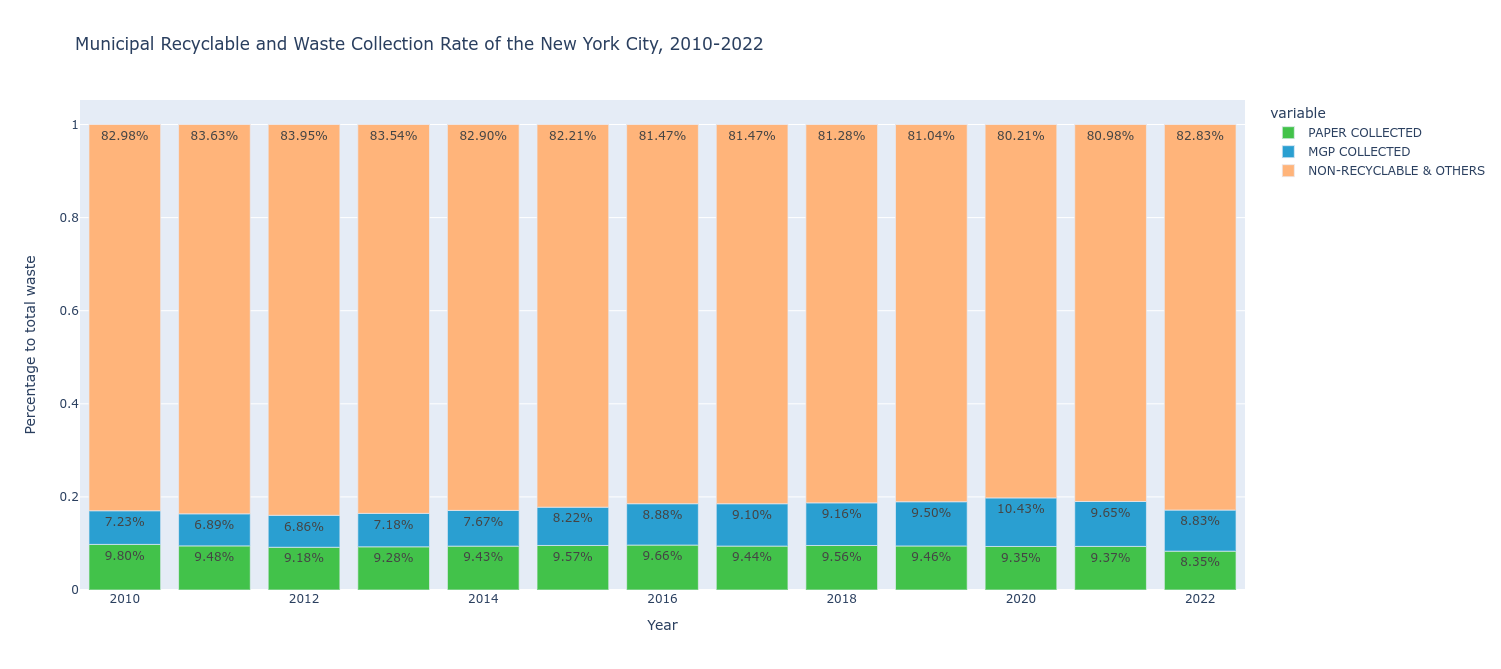
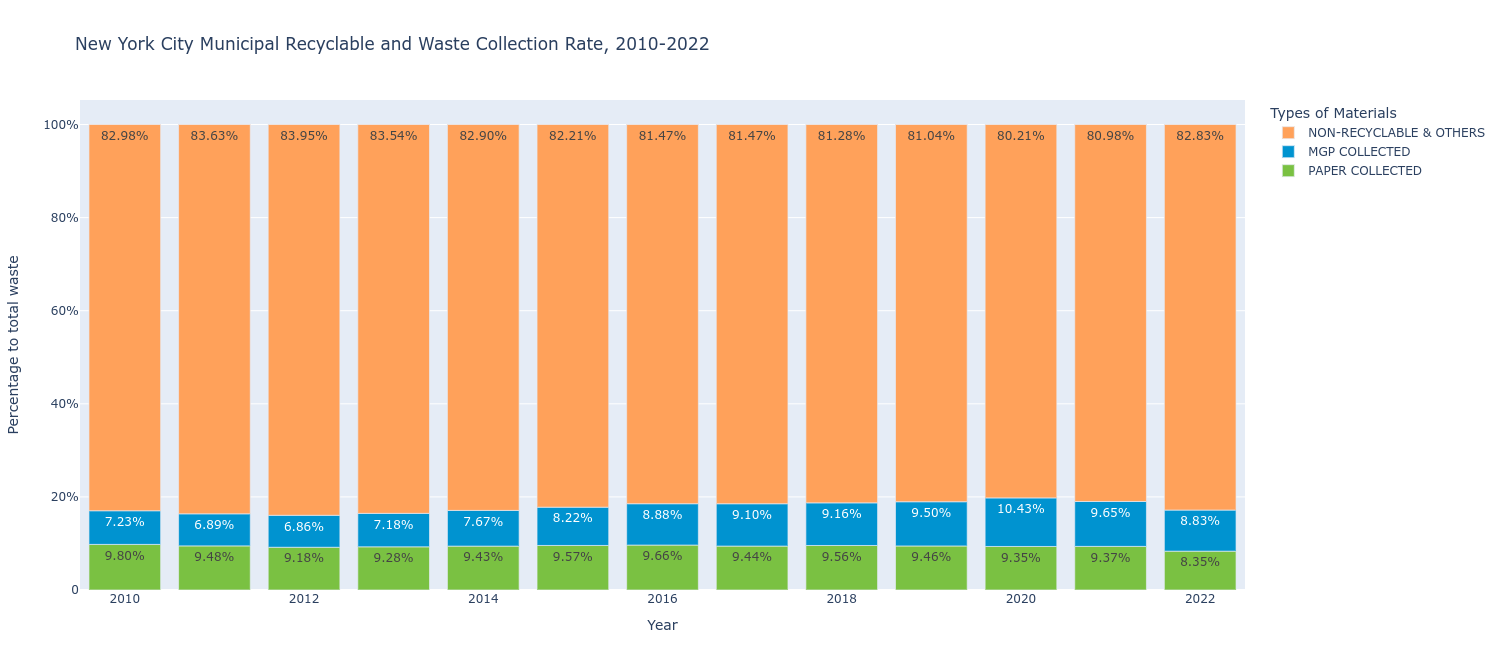
Add files via upload
- Made percentage calculation after calling new csv files in both recycle_stat_NY & recycle_stat_US.py.
- Removed reading original csv files in recycle_stat.py.
- Added legend title to all three charts.
- Standardize column names and chart titles.
- Show percentage on y-axis in all charts.
- Rewrite credits.

diff --git a/recycle_stat.py b/recycle_stat.py
@@ -4,81 +4,17 @@ import plotly.express as px
 import plotly.graph_objects as go
 
 # =================================================================================
-# National solid waste management dataset from EPA
-# https://edg.epa.gov/metadata/catalog/search/resource/details.page?uuid=C9310A5s-16D2-4002-B36B-2B0A1C637D4E
-# Credit to Professor Matt Miller for initial conversion of the CSV to a dictionary 
-# that could be visualized with the Plotly module.
-# Further effort has been made to focus on data necessary for this project.
+# Compare the NYC recycle collection rate with national rate
+# Uses the two datasets (USmswTotal_p.csv and NYCmswTotal_p.csv) created in 
+# recycle_stat_NY.py and recycle_stat_US.py.
+# If running this script alone, please download the two new datasets from GitHub,
+# and save them in the same directory with this script.
 # =================================================================================
 
-with open("National_MSW_total.csv", "r") as USmswOriginal_csv:
-    reader = csv.DictReader(USmswOriginal_csv)
+# =================================================================================
+# US data
+# =================================================================================
 
-    USmswOriginal = {}
-
-    # Select data to be included in the USmswOriginal{}
-    for row in reader:
-        if "Materials" in row:
-
-            # Skip footer description rows in the CSV
-            if row["Materials"] != "" and "Table 1" not in row["Materials"]:
-                for year in row:
-
-                    # Read and create keys with year values from the first row
-                    if year != "Materials":
-
-                        # Take only data from 2010
-                        if int(year) >= 2010:
-                            if year not in USmswOriginal:
-                                USmswOriginal[year] = {"year": year}
-
-                            # Add corresponding materials as keys and their values to each year
-                            USmswOriginal[year][row["Materials"]] = row[year]
-
-    #print(USmswOriginal)
-
-    # Calculate percentage and write to new file
-    for year in USmswOriginal:
-        year_total = int(USmswOriginal[year]["Total MSW Generated - Weight"])
-
-        paper_pt = int(USmswOriginal[year]["Products - Paper and Paperboard"])/year_total*100
-        USmswOriginal[year]["Products - Paper and Paperboard"] = paper_pt
-
-        glass_pt = int(USmswOriginal[year]["Products - Glass"])/year_total*100
-        USmswOriginal[year]["Products - Glass"] = glass_pt
-
-        metal_pt = int(USmswOriginal[year]["Products - Metals - Total"])/year_total*100
-        USmswOriginal[year]["Products - Metals - Total"] = metal_pt
-
-        plastic_pt = int(USmswOriginal[year]["Products - Plastics"])/year_total*100
-        USmswOriginal[year]["Products - Plastics"] = plastic_pt
-
-        notRecycled_pt = 100-paper_pt-glass_pt-metal_pt-plastic_pt
-        USmswOriginal[year]["Non-Recyclable & Others"] = notRecycled_pt
-
-    # Remove unwanted data
-    for year in USmswOriginal:
-        for p in ["Products - Metals - Ferrous", "Products - Metals - Aluminum",
-                  "Products - Metals - OtherNonferrous", "Products - Rubber and Leather",
-                  "Products - Textiles", "Products - Wood", "Products - Other",
-                  "Products - Total Materials", "Other Wastes - Food Waste",
-                  "Other Wastes - Yard Trimmings", "Other Wastes - Miscellaneous Inorganic Wastes",
-                  "Other Wastes - Total", "Total MSW Generated - Weight"]:
-            USmswOriginal[year].pop(p)
-
-    # Write to new csv for plotly
-    with open("USmswTotal_p.csv", "w") as outfile:
-
-        # Create a list of keys from any of the years for headers
-        fieldnames = list(USmswOriginal["2010"])
-        writer = csv.DictWriter(outfile, fieldnames=fieldnames)
-        writer.writeheader()
-
-        # Populate data in rows
-        for year in USmswOriginal:
-            writer.writerow(USmswOriginal[year])
-
-# Read new csv for building the bar chart
 USmswTotal = pd.read_csv("USmswTotal_p.csv")
 
 # Rename columns' name
@@ -102,31 +38,9 @@ USp_cols = list(USmswTotal)
 USp_cols.remove("YEAR")
 
 # =================================================================================
-# NYC solid waste management dataset from NYC Open Data
-# https://data.cityofnewyork.us/City-Government/DSNY-Monthly-Tonnage-Data/ebb7-mvp5
+# NYC data
 # =================================================================================
 
-NYCmswOriginal = pd.read_csv("DSNY_Monthly_Tonnage_Data.csv")
-
-# Drop columns of borough information
-rm_borough = ["BOROUGH", "COMMUNITYDISTRICT", "BOROUGH_ID"]
-for rm in rm_borough:
-    NYCmswOriginal = NYCmswOriginal.drop(columns=rm)
-
-# Remove month from date and create a year column
-year = pd.to_datetime(NYCmswOriginal["MONTH"])
-NYCmswOriginal["YEAR"] = year.dt.year
-NYCmswOriginal = NYCmswOriginal.drop(columns="MONTH")
-
-# Reorder columns so to have YEAR as the first column
-cols = list(NYCmswOriginal.columns)
-NYCmswOriginal = NYCmswOriginal[[cols[-1]] + cols[0:-1]]
-
-# Get the sum of each type of MSW by year and output result as a new csv
-nyc = NYCmswOriginal.groupby("YEAR").sum()
-nyc.to_csv("NYCmswTotal_p.csv")
-
-# Read new csv for further analysis
 NYCmswTotal = pd.read_csv("NYCmswTotal_p.csv")
 
 # Keep only data from 2010

diff --git a/recycle_stat_NY.py b/recycle_stat_NY.py
@@ -50,14 +50,17 @@ NYCmswTotal["NON-RECYCLABLE & OTHERS"] = 1 - NYCmswTotal["PAPER COLLECTED"] - NY
 #print(NYCp_cols)
 
 # Show NYC bar chart
-# float number is formatted as % with 2 digits behind decimal
+# Numbers presented as percentage with 2 decimal places
+# Reversed legend order to adhere to bar chart order.
 
 fig = px.bar(NYCmswTotal, 
         x = "YEAR", 
         y = ["PAPER COLLECTED", "MGP COLLECTED", "NON-RECYCLABLE & OTHERS"], 
-        color_discrete_sequence = ["#42C24A", "#2A9FD1", "#FFB47A"],
+        color_discrete_sequence = ["#7AC142", "#0093D0", "#FFA15A"],
         title = "Municipal Recyclable and Waste Collection Rate of the New York City, 2010-2022",
         labels = {"value" : "Percentage to total waste", "YEAR" : "Year"}, 
         text_auto = ".2%")
+
+fig.update_layout(legend_traceorder="reversed")
 
 fig.show()

diff --git a/recycle_stat_US.py b/recycle_stat_US.py
@@ -103,7 +103,8 @@ USp_cols.remove("YEAR")
 #print(USmswTotal)
 
 # Show US bar chart
-# float number is formatted as % with 2 digits behind decimal
+# Numbers presented as percentage with 2 decimal places
+# Reversed legend order to adhere to bar chart order.
 
 USbarcolor = {"PAPER COLLECTED" : "#7AC142",
               "PLASTICS COLLECTED" : "#0093D0",
@@ -118,4 +119,7 @@ fig = px.bar(USmswTotal,
         color_discrete_sequence = [*USbarcolor.values()],
         title="Municipal Recyclable and Waste Collection Rate of the United States, 2010-2018",
         text_auto=".2%")
+
+fig.update_layout(legend_traceorder="reversed")
+
 fig.show()
